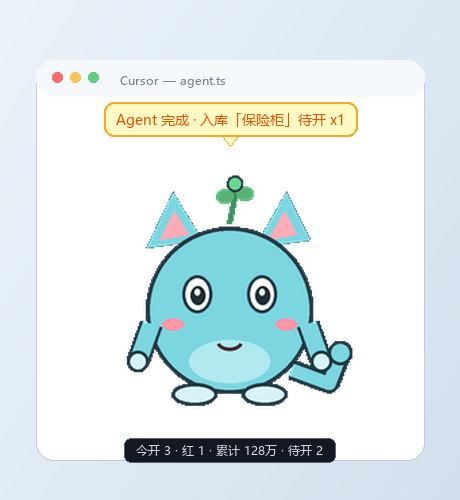
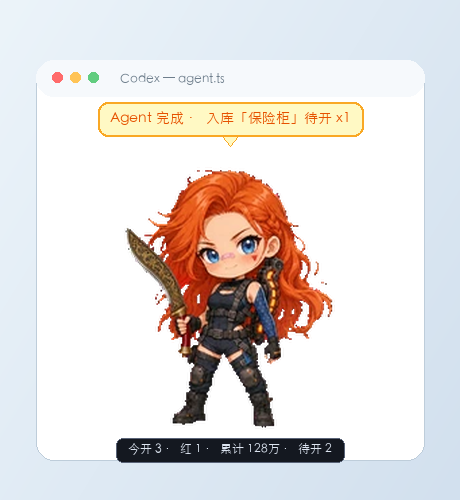
feat: show 疾风 on the first screen and bundle her spritesheet
The gallery install is still pending, so the overlay was presenting Byte. The signed-in profile exposes the author's own spritesheet, which is now the default pet and the README preview. The pack stays outside the MIT grant.

diff --git a/tools/render-preview.py b/tools/render-preview.py
@@ -1,5 +1,5 @@
 #!/usr/bin/env python3
-"""Render docs/preview.png and docs/preview.gif from the sample sprite sheet.
+"""Render docs/preview.png and docs/preview.gif from the bundled 疾风 sprite sheet.
 
 This is a static mock of the real Win32 overlay: same frame grid, bubble colors,
 HUD text, and CJK font. It does not launch a window.
@@ -25,8 +25,15 @@ QUALITY = {
 
 def font(size: int):
     windir = os.environ.get("WINDIR", r"C:\Windows")
-    for name in ("msyh.ttc", "simhei.ttf", "segoeui.ttf"):
-        p = Path(windir) / "Fonts" / name
+    candidates = [
+        Path(windir) / "Fonts" / "msyh.ttc",
+        Path(windir) / "Fonts" / "simhei.ttf",
+        Path(windir) / "Fonts" / "segoeui.ttf",
+        Path("/System/Library/Fonts/PingFang.ttc"),
+        Path("/System/Library/Fonts/STHeiti Light.ttc"),
+        Path("/System/Library/Fonts/Hiragino Sans GB.ttc"),
+    ]
+    for p in candidates:
         if p.is_file():
             try:
                 return ImageFont.truetype(str(p), size)
@@ -63,7 +70,7 @@ def background() -> Image.Image:
     d.rounded_rectangle((36, 60, W - 36, 96), radius=18, fill=(246, 249, 252, 210))
     for i, color in enumerate([(255, 107, 107), (255, 196, 87), (98, 205, 128)]):
         d.ellipse((52 + i * 18, 72, 62 + i * 18, 82), fill=color)
-    d.text((120, 72), "Cursor — agent.ts", font=font(12), fill=(110, 126, 140))
+    d.text((120, 72), "Codex — agent.ts", font=font(12), fill=(110, 126, 140))
     return img
 
 
@@ -107,7 +114,16 @@ def main() -> None:
     docs = root / "docs"
     docs.mkdir(parents=True, exist_ok=True)
 
-    sheet = Image.open(root / "pets" / "sample" / "spritesheet.png").convert("RGBA")
+    sheet_path = next(
+        p
+        for p in (
+            root / "pets" / "jifeng-q" / "spritesheet.webp",
+            root / "pets" / "jifeng-q" / "spritesheet.png",
+            root / "pets" / "sample" / "spritesheet.png",
+        )
+        if p.is_file()
+    )
+    sheet = Image.open(sheet_path).convert("RGBA")
     frames = []
     for i in range(6):
         frame = sheet.crop((i * FRAME_W, 0, (i + 1) * FRAME_W, FRAME_H))

diff --git a/README.en.md b/README.en.md
@@ -8,12 +8,14 @@ Compatible with the [petdex](https://petdex.dev) sprite format. This repository 
 
 **Quick start**: `git clone https://github.com/WU55UY/petdex-overlay.git` → `powershell -ExecutionPolicy Bypass -File .\install.ps1` · [full install guide](#install) · Fully local, no network calls.
 
+![疾风](https://cdn.jsdelivr.net/gh/WU55UY/petdex-overlay@main/docs/preview.gif)
+
 ## Codex, read this first
 
 Codex's built-in pet and this repository's floating window are two different things.
 
-1. **Codex's own pet** comes from official Petdex. You do not need to clone this repo. `npx petdex install <slug>` drops the pack into `~/.codex/pets/<slug>/`, and you pick it in Codex under **Settings → Appearance → Pets**. 疾风 (Tempest) is slug `jifeng-q` and is still pending review, so `npx petdex install jifeng-q` does not work for the public yet. Once it is approved, that one command is enough inside Codex. GitHub is not required.
-2. **This repo** is the Windows floating window and the blind-box game. It listens to Codex, Cursor, and Kimi Code hooks. The bundled sample pet is Byte, not 疾风. The 疾风 spritesheet lives in the gallery and is not part of this MIT repo, so cloning it does not put 疾风 inside Codex.
+1. **Codex's own pet** comes from official Petdex. `npx petdex install <slug>` drops the pack into `~/.codex/pets/<slug>/`, and you pick it in Codex under **Settings → Appearance → Pets**. 疾风 (Tempest) is slug `jifeng-q` and is still pending review, so `npx petdex install jifeng-q` does not work for the public yet. After approval, that one command installs it from the gallery.
+2. **This repo** is the Windows floating window and the blind-box game. It listens to Codex, Cursor, and Kimi Code hooks. `pets/jifeng-q` is 疾风's spritesheet, included for use while the gallery review is still pending. It is fan art and is not under the MIT license. Byte remains only as a format sample.
 
 To make the floating window follow Codex:
 
@@ -21,16 +23,17 @@ To make the floating window follow Codex:
 git clone https://github.com/WU55UY/petdex-overlay.git
 cd petdex-overlay
 powershell -ExecutionPolicy Bypass -File .\install.ps1 -Agents codex
+Copy-Item .\pets\jifeng-q "$env:USERPROFILE\.codex\pets\jifeng-q" -Recurse
 ```
 
-After installing, open Codex and trust the new hooks once (`/hooks`). Codex will not run them until you do. If you already have the 疾风 folder, you do not have to wait for the gallery: copy it to `%USERPROFILE%\.codex\pets\jifeng-q\` and select it in Codex. Point the overlay at the same folder:
+A first install selects 疾风 as the overlay's active pet. After installing, open Codex, trust the new hooks once (`/hooks`), and choose `jifeng-q` under **Settings → Appearance → Pets**. If an older install is still on Byte:
 
 ```powershell
 node "$env:USERPROFILE\.petdex\overlay\petdex.mjs" add "$env:USERPROFILE\.codex\pets\jifeng-q"
 node "$env:USERPROFILE\.petdex\overlay\petdex.mjs" select jifeng-q
 ```
 
-After approval, `npx petdex install jifeng-q` produces that folder for you.
+After approval, `npx petdex install jifeng-q` can replace that folder with the gallery copy.
 
 <p>
   <img alt="MIT" src="https://img.shields.io/badge/license-MIT-green">
@@ -111,7 +114,7 @@ node "$env:USERPROFILE\.petdex\overlay\petdex.mjs" status
 
 1. Copy `overlay/` into `%USERPROFILE%\.petdex\overlay\`, then copy `hooks/bridge.mjs` and `hooks/delay-down.mjs` into the same folder.
 2. Copy `data/items.json` to `%USERPROFILE%\.petdex\delta\items.json`.
-3. Copy `pets/sample/` to `%USERPROFILE%\.petdex\pets\sample\` and create `active.json`: `{"slug":"sample"}`.
+3. Copy `pets/jifeng-q/` to `%USERPROFILE%\.petdex\pets\jifeng-q\` and create `active.json`: `{"slug":"jifeng-q"}`. `pets/sample/` is Byte, the format sample, and can be skipped.
 4. Merge the hook config following [`integrations/codex`](integrations/codex), [`integrations/cursor`](integrations/cursor), or [`integrations/kimi`](integrations/kimi), replacing the paths with your own absolute paths. Codex uses `~/.codex/hooks.json`.
 
 ## Usage
@@ -144,7 +147,7 @@ HUD: `今开N · 红N · 累计N · 待开N` (opened today · reds · total · p
 
 ## Pets
 
-The repo ships `pets/sample` (Byte), an original cat blob that demonstrates the sprite format. It is not 疾风. To use a pet from the petdex gallery:
+The repo ships `pets/jifeng-q` (疾风) and `pets/sample` (Byte, the format sample). To use another pet from the petdex gallery:
 
 ```powershell
 # install it with the official petdex CLI into ~/.codex/pets/your-slug
@@ -329,7 +332,8 @@ petdex-overlay/
 │   ├── cursor/                # hooks.json fragment + /petdex command
 │   └── kimi/                  # config.toml fragment
 ├── data/items.json            # 521 loot entries
-├── pets/sample/               # original sample pet
+├── pets/jifeng-q/             # 疾风, fan art, not MIT
+├── pets/sample/               # original sample pet Byte
 ├── tools/                     # spritesheet generator / preview renderer
 ├── tests/                     # loot + bridge + CLI tests
 └── docs/                      # README assets
@@ -359,6 +363,6 @@ The tests run in temporary directories and never touch `%USERPROFILE%\.petdex`.
 
 - The sprite format and the [petdex](https://github.com/crafter-station/petdex) ecosystem come from Crafter Station (MIT). This project is an independent Windows client, not an official one.
 - The bundled *Delta Force* loot data is fan-collected; rights belong to the original rights holders and it is meant for local entertainment.
-- The sample pet Byte and all code are released under MIT by this project.
+- The sample pet Byte and all code are released under MIT by this project. `pets/jifeng-q` (疾风) is fan art and is not under MIT; see [NOTICE.md](NOTICE.md).
 
 Code: [MIT](LICENSE). Third-party notes: [NOTICE.md](NOTICE.md).

diff --git a/NOTICE.md b/NOTICE.md
@@ -36,12 +36,19 @@ list works — see the "Loot rules" section of the [README](README.md).
 The overlay renders text with fonts already installed on the system and falls
 back to the Segoe UI family on Windows. No font files are redistributed here.
 
-## 4. Pet packs submitted to the Petdex gallery
+## 4. Bundled fan-art pet
 
-This repository is an independent Windows client that reads the petdex sprite
-format. Pet packs submitted to the [petdex gallery](https://petdex.dev) are
-separate works distributed through Petdex, not through this repository, and are
-**not** covered by the MIT grant above.
+`pets/sample` (Byte) is original and is covered by the MIT license above.
+
+`pets/jifeng-q` (疾风 / Tempest) is the author's own pending Petdex submission.
+It is bundled so Codex and this overlay can use the character before the
+gallery approves `jifeng-q`. That folder is **not** covered by the MIT grant.
+The character and likeness belong to their rights holders (Tencent / TiMi
+Studio Group). This project is not affiliated with or endorsed by them. A
+rights-holder request to remove it will be honored by deleting `pets/jifeng-q`.
+
+Other pet packs installed from the [petdex gallery](https://petdex.dev) stay
+under their own terms and are not relicensed by this repository.
 
 For fan-art packs (for example a chibi take on a *Delta Force* operator):
 

diff --git a/CHANGELOG.md b/CHANGELOG.md
@@ -9,7 +9,7 @@
 
 ### Changed
 
-- READMEs now separate Codex's built-in pet (`npx petdex install`, still blocked while `jifeng-q` is pending review) from this overlay. The first screen no longer shows the sample pet Byte, which is not 疾风.
+- READMEs now separate Codex's built-in pet (`npx petdex install`, still blocked while `jifeng-q` is pending review) from this overlay. The first screen shows 疾风 from `pets/jifeng-q`, the author's pending gallery submission. That pack is fan art and is not under the MIT license. Byte stays as the format sample. A first install selects `jifeng-q`.
 - The Petdex gallery guide now uses the real submission slug `jifeng-q` in both
   READMEs, and documents that pending submissions cannot be edited
   (`only_approved_editable`) — description / tags / license changes wait for approval.
